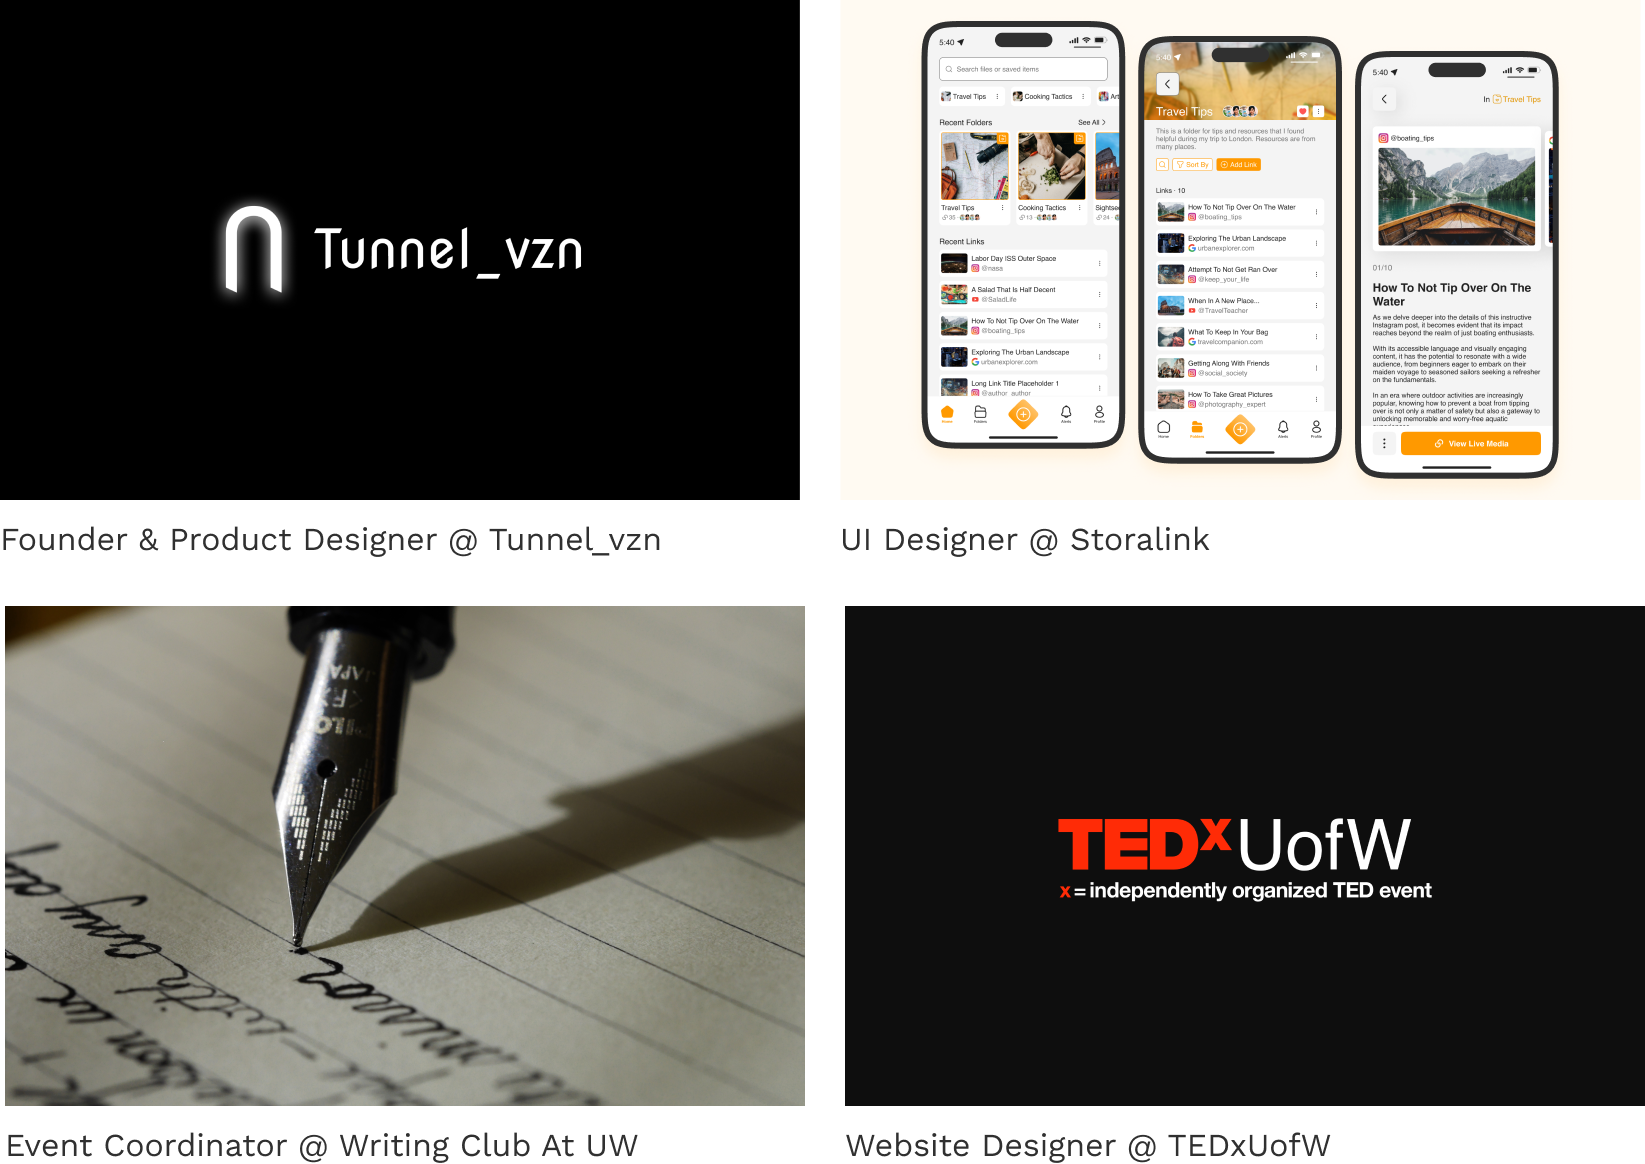
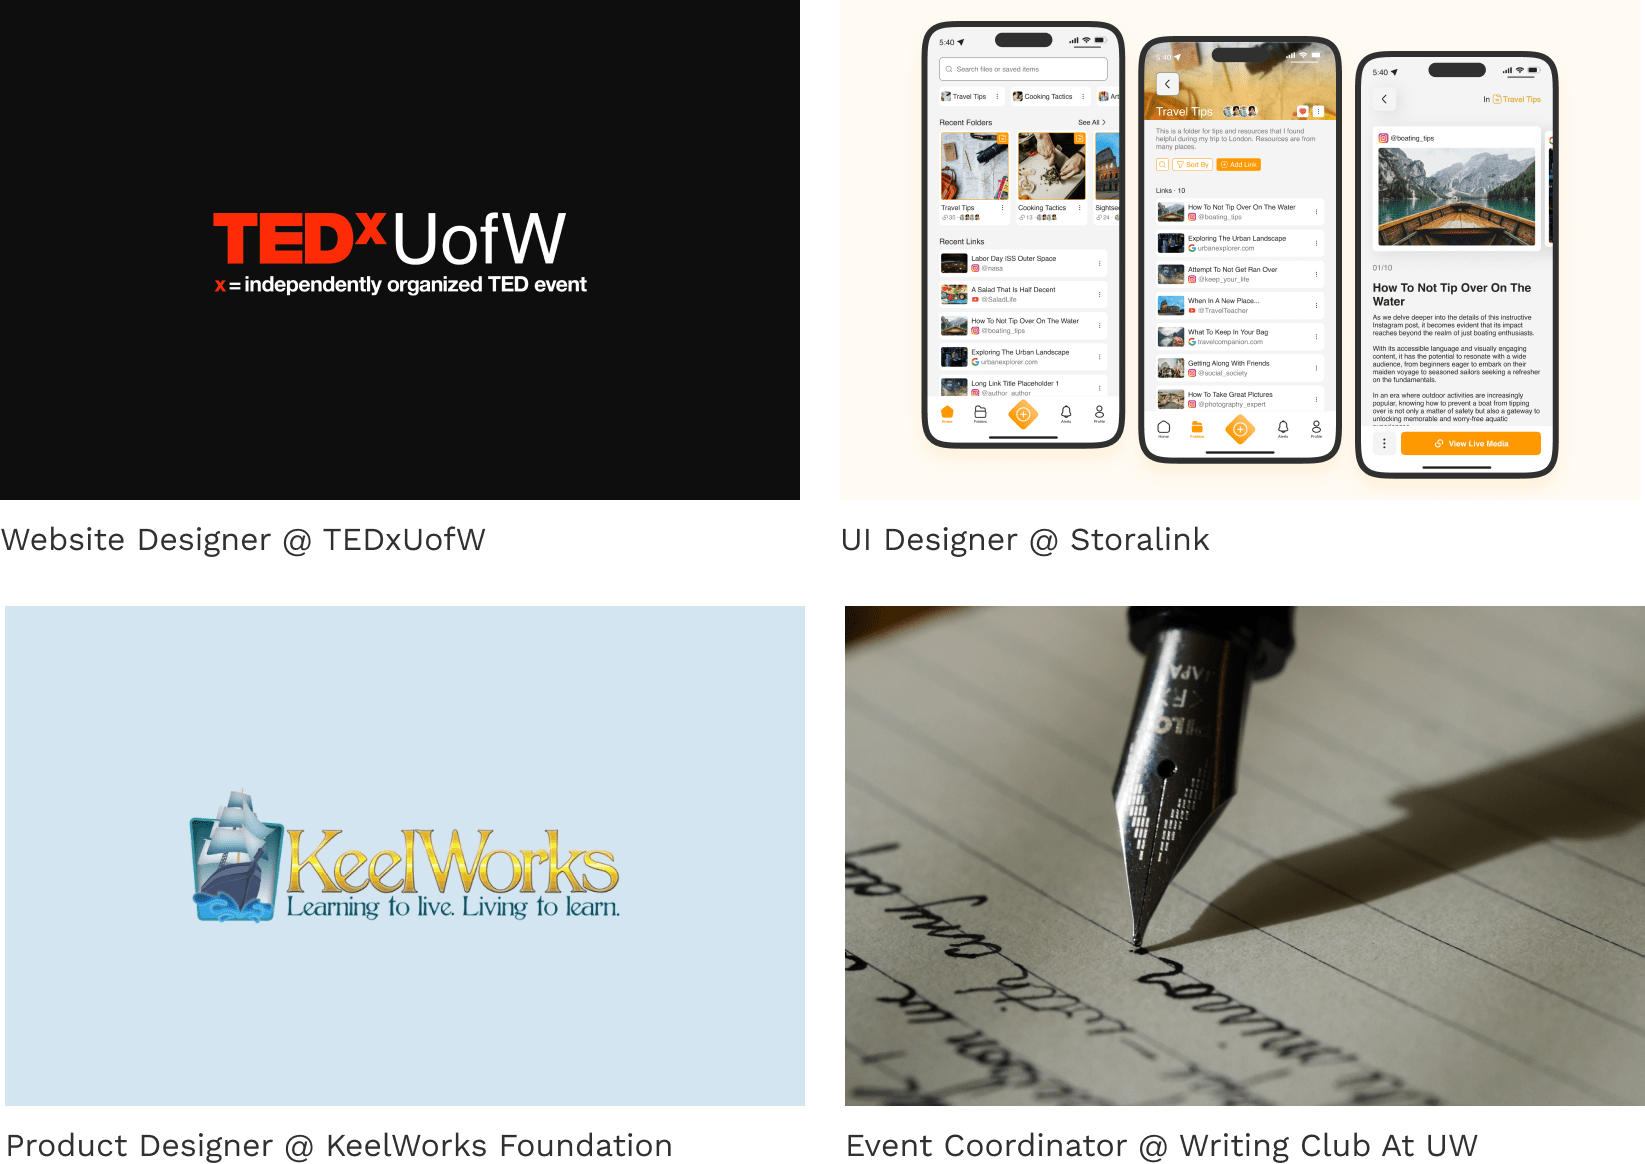
end tunnelvzn update

diff --git a/allProjects.html b/allProjects.html
@@ -206,21 +206,6 @@
                 </div>
             </a>
 
-            <!-- tunnel card -->
-            <a href="./tunnelvzn.html">
-                <div class="card shrink fadeIn">
-                    <div class="imgContain">
-                        <img src="img/universal/tunnelRawCover.png" alt="tunnel_vzn cover image">
-                    </div>
-                    <div class="container animated animatedFadeInUp fadeInUp">
-                        <p class="quickFacts">Initiative · Founder & Designer · Jan 2022 – Present</p>
-                        <!-- <p class="cardTitle">Tunnel_vzn - Storytelling Site</p> -->
-                        <p class="cardTitle">Tunnel_vzn - In Progress</p>
-                        <p class="cardDes">Telling the stories of University of Washington students' struggles and how to overcome them</p>
-                    </div>
-                </div>
-            </a>
-
             <!-- storalink card -->
             <a href="./storalink.html">
                 <div class="card shrink fadeIn">
@@ -231,6 +216,21 @@
                         <p class="quickFacts">Initiative · UI Designer · May 2023 – Present</p>
                         <p class="cardTitle">Storalink - In Progress</p>
                         <p class="cardDes">Facilitating a more connected society by allowing internet-savvy people to share linked resources</p>
+                    </div>
+                </div>
+            </a>
+
+            <!-- tunnel card -->
+            <a href="./tunnelvzn.html">
+                <div class="card shrink fadeIn">
+                    <div class="imgContain">
+                        <img src="img/universal/tunnelRawCover.png" alt="tunnel_vzn cover image">
+                    </div>
+                    <div class="container animated animatedFadeInUp fadeInUp">
+                        <p class="quickFacts">Initiative · Founder & Designer · Jan 2022 – Jan 2024</p>
+                        <!-- <p class="cardTitle">Tunnel_vzn - Storytelling Site</p> -->
+                        <p class="cardTitle">Tunnel_vzn - In Progress</p>
+                        <p class="cardDes">Telling the stories of University of Washington students' struggles and how to overcome them</p>
                     </div>
                 </div>
             </a>

diff --git a/index.html b/index.html
@@ -170,21 +170,6 @@
                 </div>
             </a>
 
-            <!-- tunnel card -->
-            <a href="./tunnelvzn.html">
-                <div class="card shrink fadeIn">
-                    <div class="imgContain">
-                        <img src="img/universal/tunnelRawCover.png" alt="tunnel_vzn cover image">
-                    </div>
-                    <div class="container animated animatedFadeInUp fadeInUp">
-                        <p class="quickFacts">Initiative · Founder & Designer · Jan 2022 – Present</p>
-                        <!-- <p class="cardTitle">Tunnel_vzn - Storytelling Site</p> -->
-                        <p class="cardTitle">Tunnel_vzn - In Progress</p>
-                        <p class="cardDes">Telling the stories of University of Washington students' struggles and how to overcome them</p>
-                    </div>
-                </div>
-            </a>
-
             <!-- storalink card -->
             <a href="./storalink.html">
                 <div class="card shrink fadeIn">
@@ -195,6 +180,21 @@
                         <p class="quickFacts">Initiative · UI Designer · May 2023 – Present</p>
                         <p class="cardTitle">Storalink - In Progress</p>
                         <p class="cardDes">Facilitating a more connected society by allowing internet-savvy people to share linked resources</p>
+                    </div>
+                </div>
+            </a>
+
+            <!-- tunnel card -->
+            <a href="./tunnelvzn.html">
+                <div class="card shrink fadeIn">
+                    <div class="imgContain">
+                        <img src="img/universal/tunnelRawCover.png" alt="tunnel_vzn cover image">
+                    </div>
+                    <div class="container animated animatedFadeInUp fadeInUp">
+                        <p class="quickFacts">Initiative · Founder & Designer · Jan 2022 – Jan 2024</p>
+                        <!-- <p class="cardTitle">Tunnel_vzn - Storytelling Site</p> -->
+                        <p class="cardTitle">Tunnel_vzn - In Progress</p>
+                        <p class="cardDes">Telling the stories of University of Washington students' struggles and how to overcome them</p>
                     </div>
                 </div>
             </a>

diff --git a/about.html b/about.html
@@ -181,14 +181,13 @@
 
             <div class="sec aboutPagesSpaceBetween" id="currently">
                 <h2>Currently</h2>
-                <h1>I'm wrapping up Tunnel_vzn, building Storalink, creating events for the Writing Club, and designing TEDxUofW's website.</h1>
+                <h1>I'm continuing my product design journey, striving to learn new things every day!</h1>
+                <p>
+                    As I'm in my final year of university, I make the most of my time. 
+                    From helping organizations like TEDxUofW with website design to coordinating events for the writing club, I like to stay connected to my peers and community.
+                    Outside of university, I'm contributing UI to a mobile application called Storalink and volunteering my time and skills by designing internal tools for the KeelWorks Foundation.
+                </p>
                 <div>
-                    <p>
-                        In my final year at my university, I have started putting the finishing touches on the next story for Tunnel_vzn. 
-                        On the weekends, I create UI designs for the team at Storalink. 
-                        Additionally, as the Event Coordinator at the Writing Club, I brainstorm fun activities for 200+ members.
-                        On top of everything, I'm part of the design team at UW's TED Talks chapter, creating the website for the upcoming theme.
-                    </p>
                     <img src="img/aboutMe/currently.png" class="portImg">
                 </div>
             </div>

diff --git a/tunnelvzn.html b/tunnelvzn.html
@@ -145,7 +145,7 @@
                 <div>
                     <h2>Duration</h2>
                     <p>
-                        Jan 2022 – Present (1 year, 11 months)
+                        Jan 2022 – Jan 2024 (2 years)
                     </p>
                 </div>
             </div>

diff --git a/storalink.html b/storalink.html
@@ -145,7 +145,7 @@
                 <div>
                     <h2>Duration</h2>
                     <p>
-                        May 2023 – Present (7 months)
+                        May 2023 – Present (10 months)
                     </p>
                 </div>
             </div>
